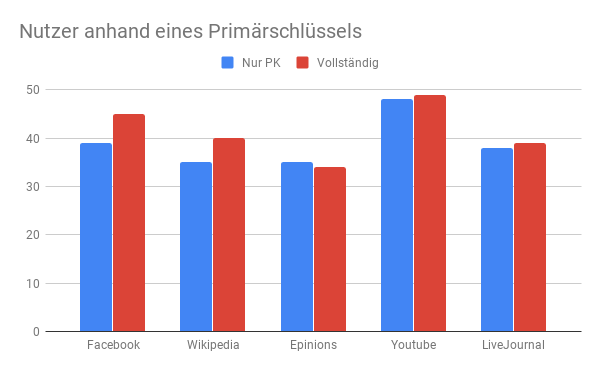
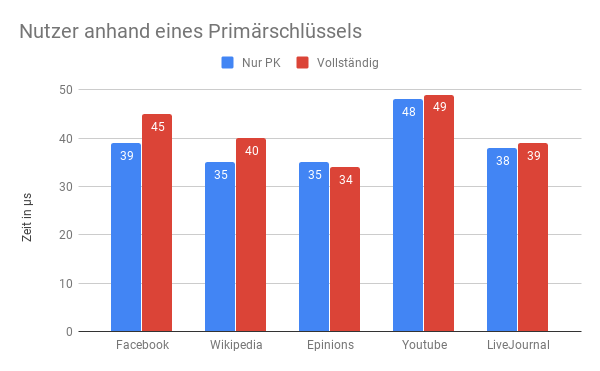
anhang

diff --git a/report/appendix.tex b/report/appendix.tex
@@ -36,3 +36,23 @@ origid='origid'
 destid='destid' 
 weight='weight';	
 \end{lstlisting}
+\section{Installationsscript der OLTP Anwendung}
+\lstset{
+	columns=fullflexible,
+	breaklines=true,
+	postbreak=\mbox{\textcolor{red}{$\hookrightarrow$}\space},
+}
+\lstinputlisting[language=SQL]{appendix/oltp_create.log}
+\section{Messergebnisse des OLAP Systems}
+\begin{tabularx}{\textwidth}{X X X X X X}
+	\textbf{Test Case}    & \textbf{Facebook}  & \textbf{Wikipedia} & \textbf{Epinions} & \textbf{Youtube} & \textbf{LiveJournal} \\
+	\hline
+	Selektion PK &	39&	35&	35&	48&	38\\
+	PK (Vollständig)&	45&	40&	34&	49&	39\\
+	NPK&	1198&	1631&	2762&	34353&	53051\\
+	indexierter NPK&	151&	339&	61&	148&	160\\
+	Anz. Nutzer&	1180&	2438&	10279&	313073&	1080732\\
+	Anz. Beziehungen&	24333&	28018&	46188&	819052&	9255936\\
+	AVG Alter&	3226&	4564&	18562&	508547&	1904271\\
+	AVG Beziehung&	37821&	47658&	85494&	1444649&	16644672\\
+\end{tabularx}

diff --git a/report/chapter4.tex b/report/chapter4.tex
@@ -74,14 +74,14 @@ Abbildung \ref{fig:NutzerNPk} und Abbildung \ref{fig:NutzerNPkI} zeigt die Ergeb
 \begin{figure}
 	\centering
 	\includegraphics[width=\textwidth]{images/NutzerNPk.png}
-	\caption{Messergebnisse zur Selektion eines Nutzers anhand eines nicht-Primärschlüssels}
+	\caption{Messergebnisse zur Selektion eines Nutzers anhand eines Nicht-Primärschlüssels}
 	\label{fig:NutzerNPk}
 \end{figure}
 
 \begin{figure}
 	\centering
 	\includegraphics[width=\textwidth]{images/NutzerNPkI.png}
-	\caption{Messergebnisse zur Selektion eines Nutzers anhand eines nicht-Primärschlüssels}
+	\caption{Messergebnisse zur Selektion eines Nutzers anhand eines Nicht-Primärschlüssels}
 	\label{fig:NutzerNPkI}
 \end{figure}
 
